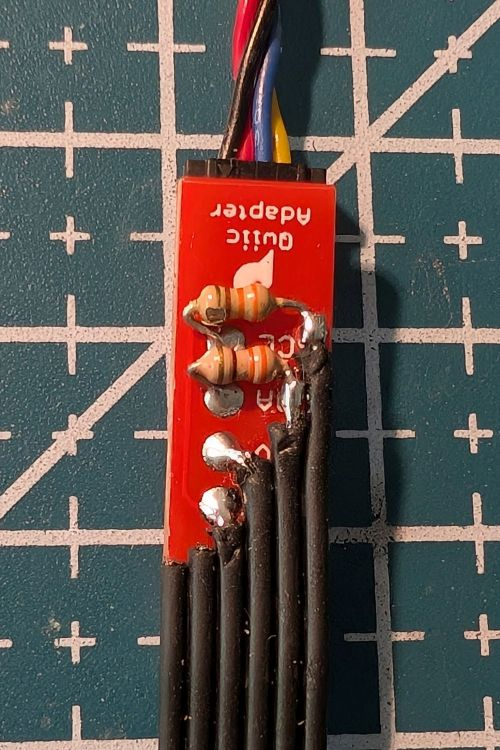
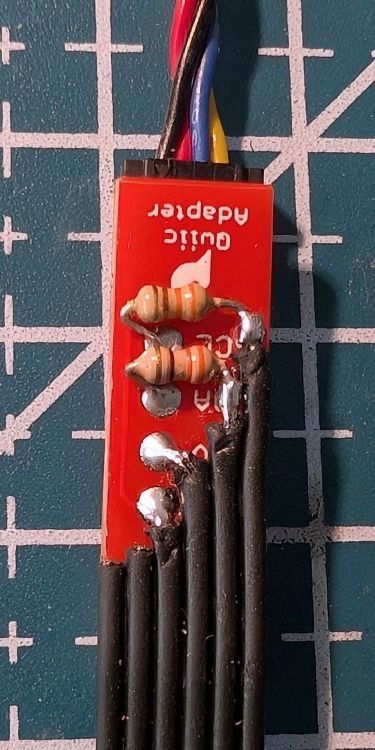
OpenMV AE3 adapter: more images

diff --git a/openmv-ae3/README.md b/openmv-ae3/README.md
@@ -12,8 +12,7 @@ the Camera can be connected to the LMS-ESP32 with a _Qwiic_ cable or to the LEGO
 See 'Powered Up' column at Pybricks [generic UART device](https://docs.pybricks.com/en/v4.0.0/iodevices/uartdevice.html) for wire ordering.  
 __Note__: double check polarity after soldering GND and 3.3V. Reversed polarity or connecting motor 8V to the TX/RX pins will fry the camera.
 
-![](adapter-top.jpg) ![](adapter-bottom.jpg)
-
+![](adapter-top.jpg) ![](adapter-bottom.jpg) ![](adapter-shrink.jpg)
 
 Communication works well with Anton's [uremote library](https://www.antonsmindstorms.com/2026/06/22/openmv-ae3-spike-line-follower/) to LMS-ESP32 and LEGO Spike.
 
